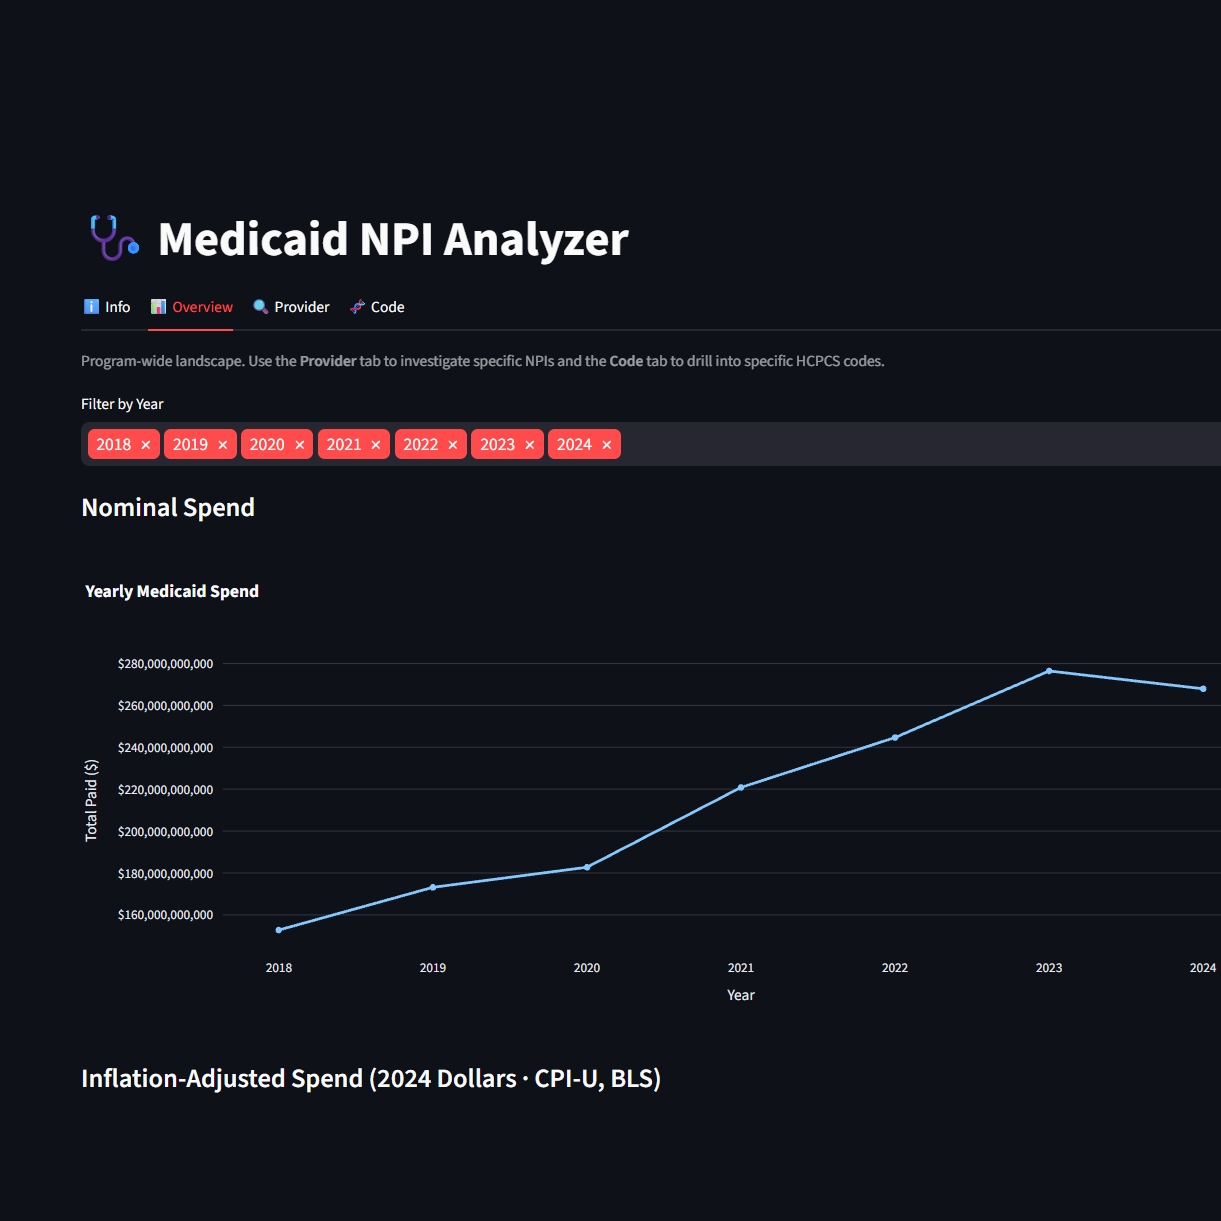
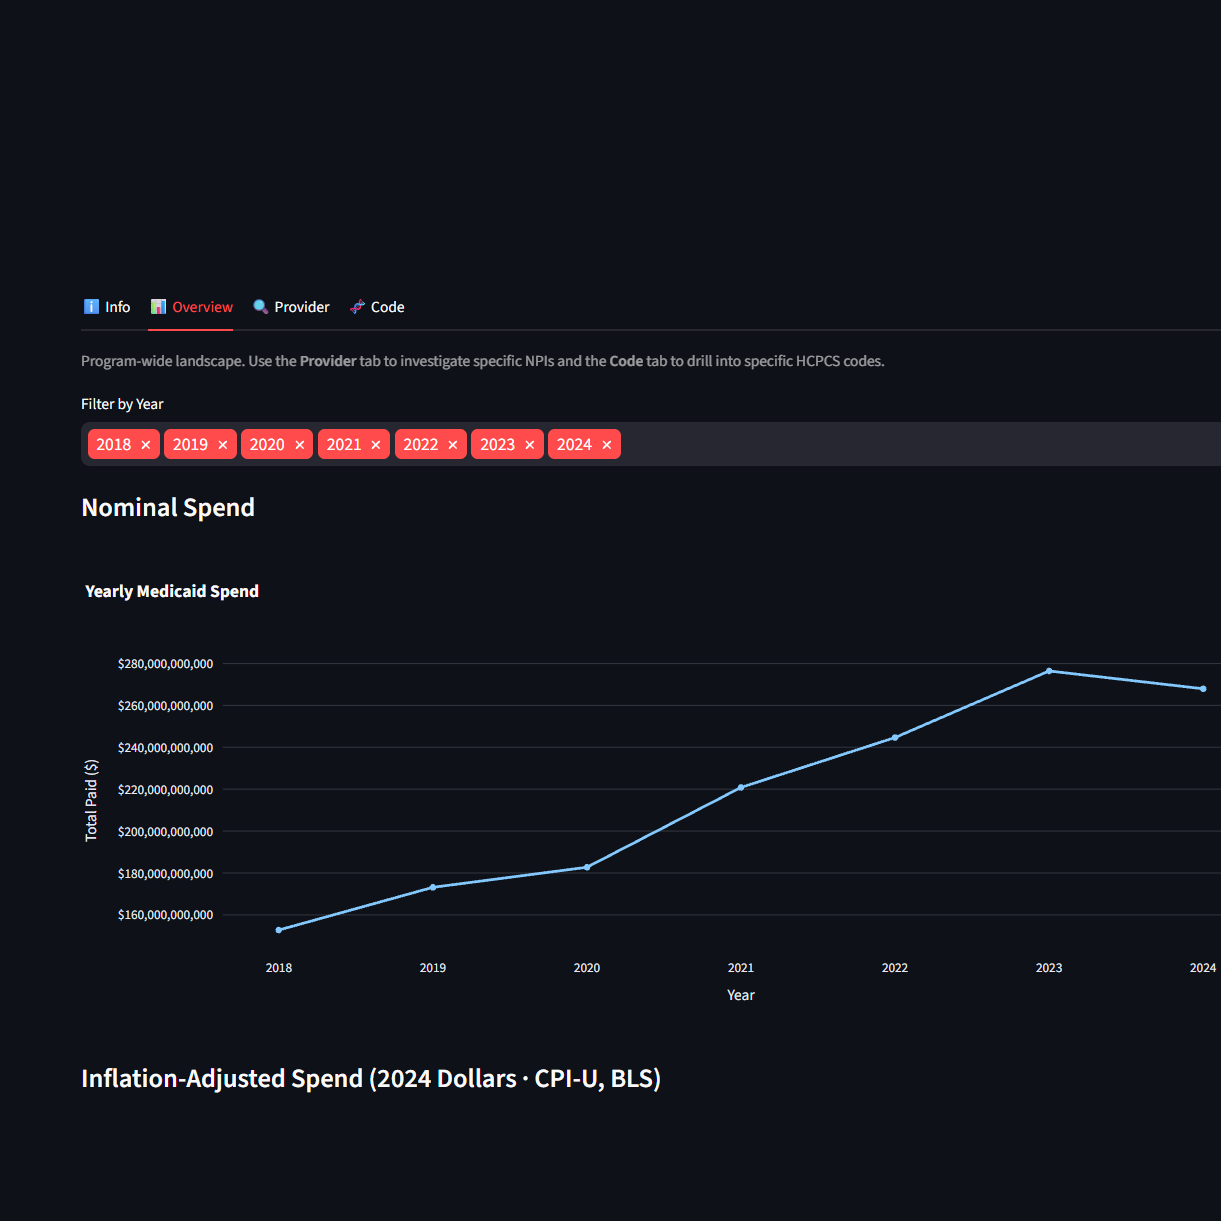
Give every technical project a plain descriptive title and add a keyboard instrument entry
Project titles, alt text, screenshot file names, and the simulation page now
describe what each project does. Two screenshots had their on-screen titles
painted out. The new entry is a Windows software instrument prototype.

Changed region(s): [[0.0622, 0.1867, 0.5291, 0.2179]]

diff --git a/technical-projects.html b/technical-projects.html
@@ -21,10 +21,10 @@
     <h2>Selected Technical Projects</h2>
 
     <div class="role shot">
-      <figure class="thumb"><a class="zoom" href="shots/full/medicaid.png" aria-label="View Medicaid NPI Analyzer screenshot at full size"><img src="shots/medicaid.png" alt="Medicaid NPI Analyzer screenshot" loading="lazy"></a></figure>
+      <figure class="thumb"><a class="zoom" href="shots/full/medicaid.png" aria-label="View Medicaid Claims Explorer screenshot at full size"><img src="shots/medicaid.png" alt="Medicaid Claims Explorer screenshot" loading="lazy"></a></figure>
       <div class="body">
       <div class="role-head">
-        <span class="role-title">Medicaid NPI Analyzer</span>
+        <span class="role-title">Medicaid Claims Explorer</span>
       </div>
       <p class="role-sub">Python, DuckDB, Streamlit, Plotly</p>
       <p class="d">The same dataset is charted on the <a href="data-analysis.html">Data Analysis</a> page.</p>
@@ -53,10 +53,10 @@
     </div>
 
     <div class="role shot">
-      <figure class="thumb"><a class="zoom" href="shots/full/agdat.png" aria-label="View AgDat screenshot at full size"><img src="shots/agdat.png" alt="AgDat screenshot" loading="lazy"></a></figure>
+      <figure class="thumb"><a class="zoom" href="shots/full/fwa-demo.png" aria-label="View Fraud, Waste, and Abuse Detection Demo screenshot at full size"><img src="shots/fwa-demo.png" alt="Fraud, Waste, and Abuse Detection Demo screenshot" loading="lazy"></a></figure>
       <div class="body">
       <div class="role-head">
-        <span class="role-title">AgDat</span>
+        <span class="role-title">Fraud, Waste, and Abuse Detection Demo</span>
       </div>
       <p class="role-sub">Python, DuckDB, pytest</p>
       <ul>
@@ -68,10 +68,10 @@
     </div>
 
     <div class="role shot">
-      <figure class="thumb"><a class="zoom" href="shots/full/sim01.png" aria-label="View SIM_01, an ecology simulation screenshot at full size"><img src="shots/sim01.png" alt="SIM_01, an ecology simulation screenshot" loading="lazy"></a></figure>
+      <figure class="thumb"><a class="zoom" href="shots/full/ecology-sim.png" aria-label="View Ecology Simulation screenshot at full size"><img src="shots/ecology-sim.png" alt="Ecology Simulation screenshot" loading="lazy"></a></figure>
       <div class="body">
       <div class="role-head">
-        <span class="role-title">SIM_01, an ecology simulation</span>
+        <span class="role-title">Ecology Simulation</span>
       </div>
       <p class="role-sub">JavaScript, HTML Canvas, no dependencies</p>
       <p class="d"><a href="sim/index.html">Run it live</a> &middot; <a href="https://github.com/d3r3kn/derek-portfolio/tree/main/sim" target="_blank" rel="noopener">Source (MIT)</a> &middot; runs in your browser, best on a desktop</p>
@@ -84,11 +84,25 @@
       </div>
     </div>
 
+    <div class="role">
+      <div class="role-head">
+        <span class="role-title">Software Keyboard Instrument</span>
+      </div>
+      <p class="role-sub">C++20, JUCE, CMake &middot; Windows desktop app</p>
+      <p class="d">A prototype I use myself, started October 2026. Six of seven planned milestones are built.</p>
+      <ul>
+        <li>Plays six synth engines written from scratch, a sampled orchestra, and modeled pianos and organs live from a MIDI keyboard, with 115 presets.</li>
+        <li>Records performances as multitrack takes, edited in a piano roll (quantize, humanize, tempo map) and exported as MIDI, WAV, MP3, FLAC, or per-track stems.</li>
+        <li>Turns a folder of audio recordings into a playable instrument through pitch detection, trimming, loop finding, and key mapping.</li>
+        <li>I wrote the spec and milestone plan, made the product and design decisions, and play-tested every milestone. Claude Code wrote the code under my direction. 3,688 automated checks pass across about 27,500 lines of C++.</li>
+      </ul>
+    </div>
+
     <div class="role shot">
-      <figure class="thumb"><a class="zoom" href="shots/full/clipper.png" aria-label="View Video Clipper screenshot at full size"><img src="shots/clipper.png" alt="Video Clipper screenshot" loading="lazy"></a></figure>
+      <figure class="thumb"><a class="zoom" href="shots/full/clipper.png" aria-label="View Video Clipping Tool screenshot at full size"><img src="shots/clipper.png" alt="Video Clipping Tool screenshot" loading="lazy"></a></figure>
       <div class="body">
       <div class="role-head">
-        <span class="role-title">Video Clipper</span>
+        <span class="role-title">Video Clipping Tool</span>
       </div>
       <p class="role-sub">JavaScript, Electron, FFmpeg</p>
       <ul>
@@ -100,10 +114,10 @@
     </div>
 
     <div class="role shot">
-      <figure class="thumb"><a class="zoom" href="shots/full/tts.png" aria-label="View Local TTS Studio screenshot at full size"><img src="shots/tts.png" alt="Local TTS Studio screenshot" loading="lazy"></a></figure>
+      <figure class="thumb"><a class="zoom" href="shots/full/text-to-speech.png" aria-label="View Offline Text-to-Speech Studio screenshot at full size"><img src="shots/text-to-speech.png" alt="Offline Text-to-Speech Studio screenshot" loading="lazy"></a></figure>
       <div class="body">
       <div class="role-head">
-        <span class="role-title">Local TTS Studio</span>
+        <span class="role-title">Offline Text-to-Speech Studio</span>
       </div>
       <p class="role-sub">Python, Gradio, PyTorch</p>
       <ul>

diff --git a/sim/index.html b/sim/index.html
@@ -3,13 +3,13 @@
 <head>
 <meta charset="utf-8">
 <meta name="viewport" content="width=device-width, initial-scale=1">
-<title>SIM_01: Organisms</title>
+<title>Ecology Simulation: Organisms</title>
 <link rel="stylesheet" href="css/style.css">
 </head>
 <body>
 <div id="app">
   <header id="topbar">
-    <div class="brand">SIM_01</div>
+    <div class="brand">Ecology Simulation</div>
 
     <div class="controls">
       <div class="group">

diff --git a/README.md b/README.md
@@ -8,4 +8,4 @@ Source for my personal portfolio site: plain HTML and CSS, no build step, deploy
 
 All site content, including text, images, video, and design, may not be reused without permission.
 
-The exception is [`sim/`](sim/) (SIM_01), which is MIT licensed. See [`sim/LICENSE`](sim/LICENSE).
+The exception is [`sim/`](sim/) (the ecology simulation), which is MIT licensed. See [`sim/LICENSE`](sim/LICENSE).

diff --git a/sim/README.md b/sim/README.md
@@ -1,4 +1,4 @@
-# SIM_01: square organisms
+# Ecology simulation: square organisms
 
 A browser simulation of small square organisms that sense, eat, sleep, fight, flee and breed
 in a continuous 2D world with a day/night cycle. No build step, no dependencies.
